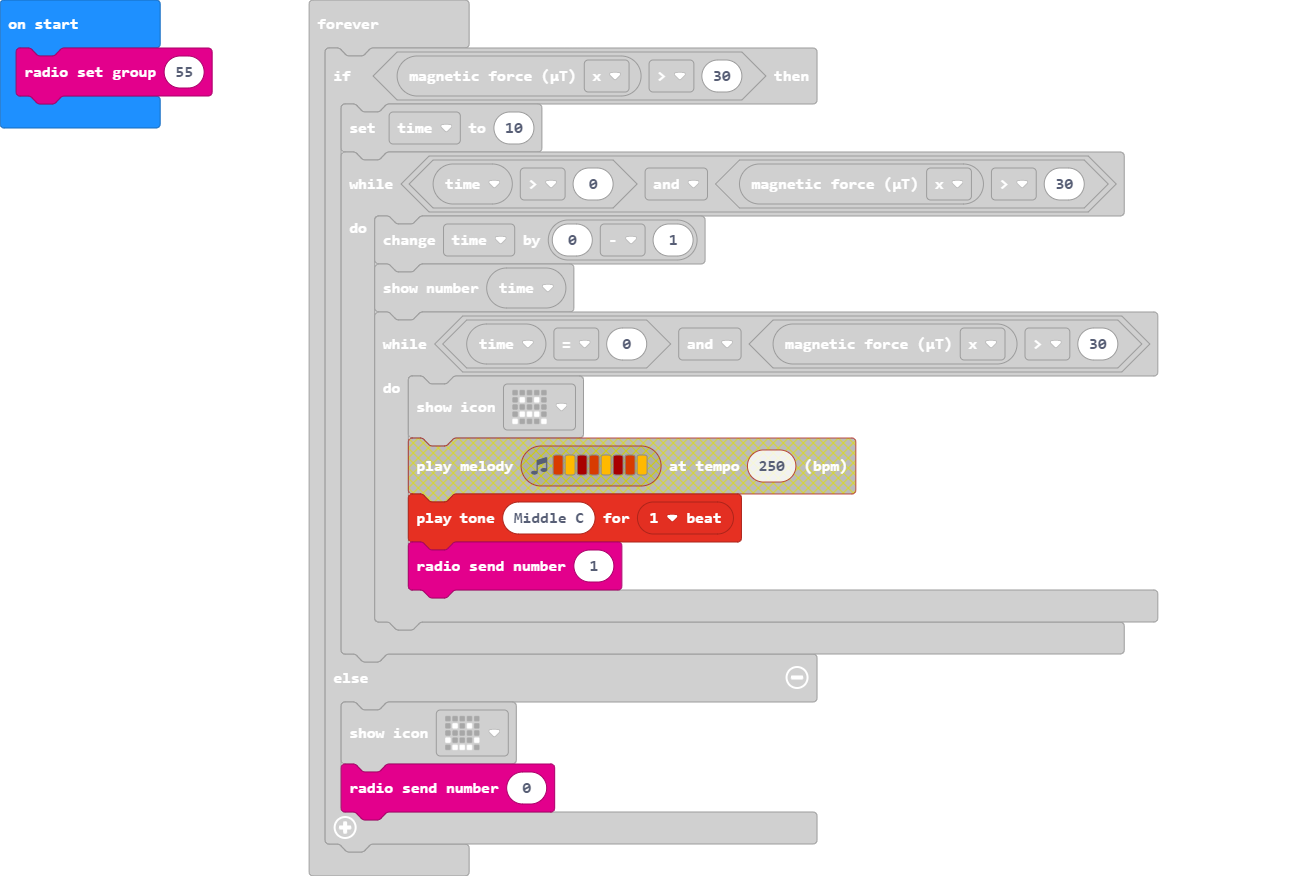
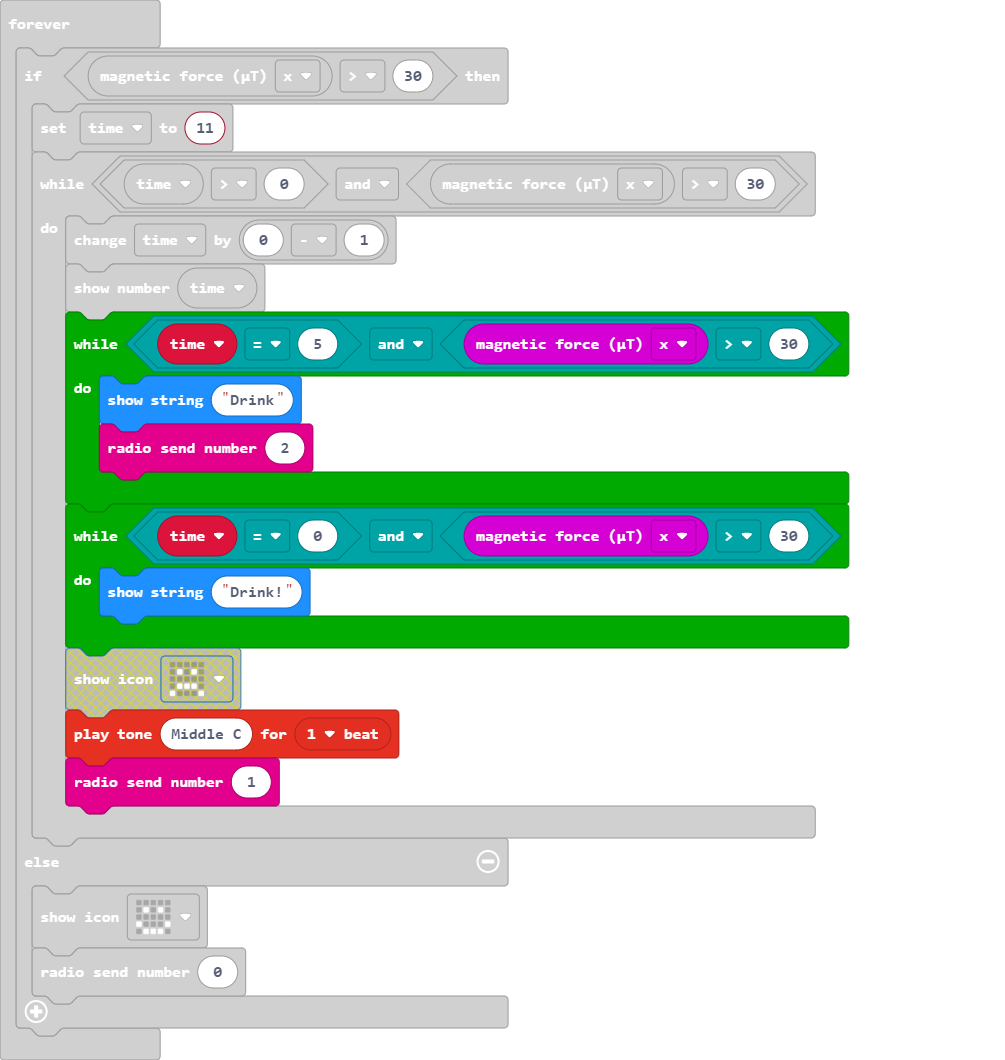
Update main.blocks, main.ts

diff --git a/main.ts b/main.ts
@@ -2,12 +2,16 @@ let time = 0
 radio.setGroup(55)
 basic.forever(function () {
     if (input.magneticForce(Dimension.X) > 30) {
-        time = 10
+        time = 11
         while (time > 0 && input.magneticForce(Dimension.X) > 30) {
             time += 0 - 1
             basic.showNumber(time)
+            while (time == 5 && input.magneticForce(Dimension.X) > 30) {
+                basic.showString("Drink")
+                radio.sendNumber(2)
+            }
             while (time == 0 && input.magneticForce(Dimension.X) > 30) {
-                basic.showIcon(IconNames.Sad)
+                basic.showString("Drink!")
                 music.playTone(262, music.beat(BeatFraction.Whole))
                 radio.sendNumber(1)
             }
